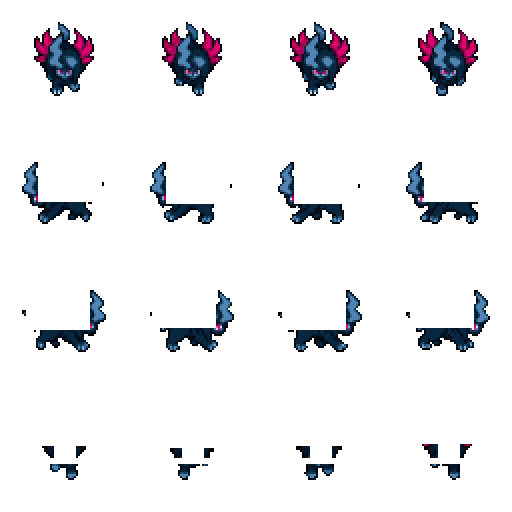
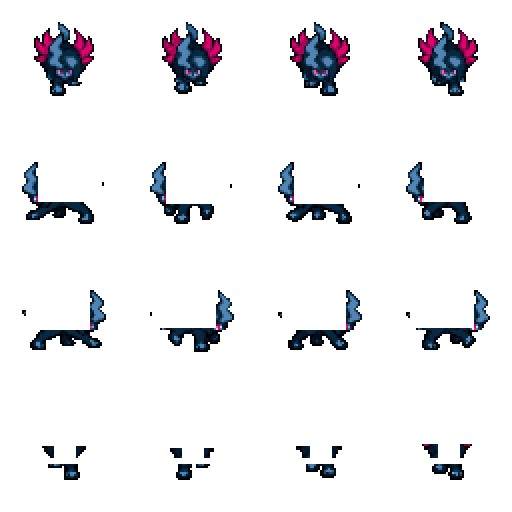
Give Mega Absol Z a more readable walking stride

diff --git a/CHANGELOG.md b/CHANGELOG.md
@@ -2,6 +2,8 @@
 
 ## Unreleased
 
+- Give Mega Absol Z clearer planted and lifted walking paws with a wider stride, preserving its upper-body artwork and fitted rider positions.
+
 - Lower the Glaceon rider slightly to sit against its back, preserving native sprite scale, side-ear layering and synchronized walking motion.
 
 - Add the native-size Glaceon land mount with the approved riding pose, corrected side-ear layering and a compact Bag icon.
